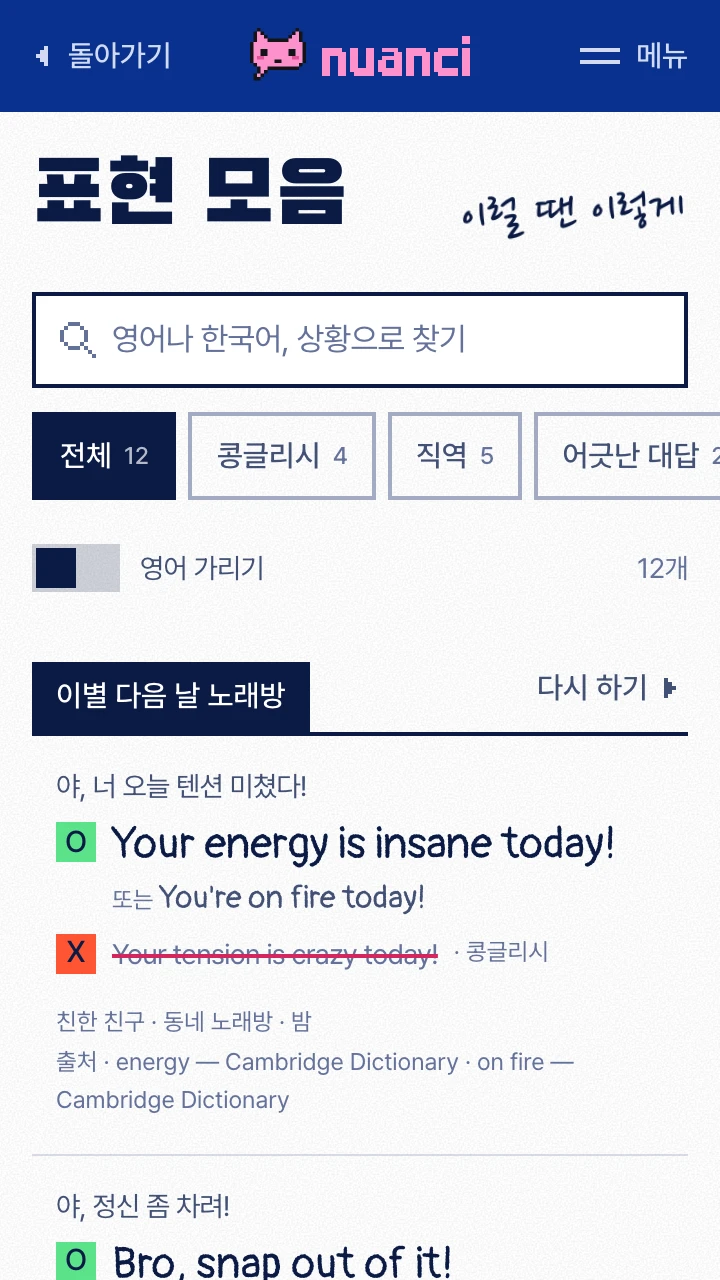
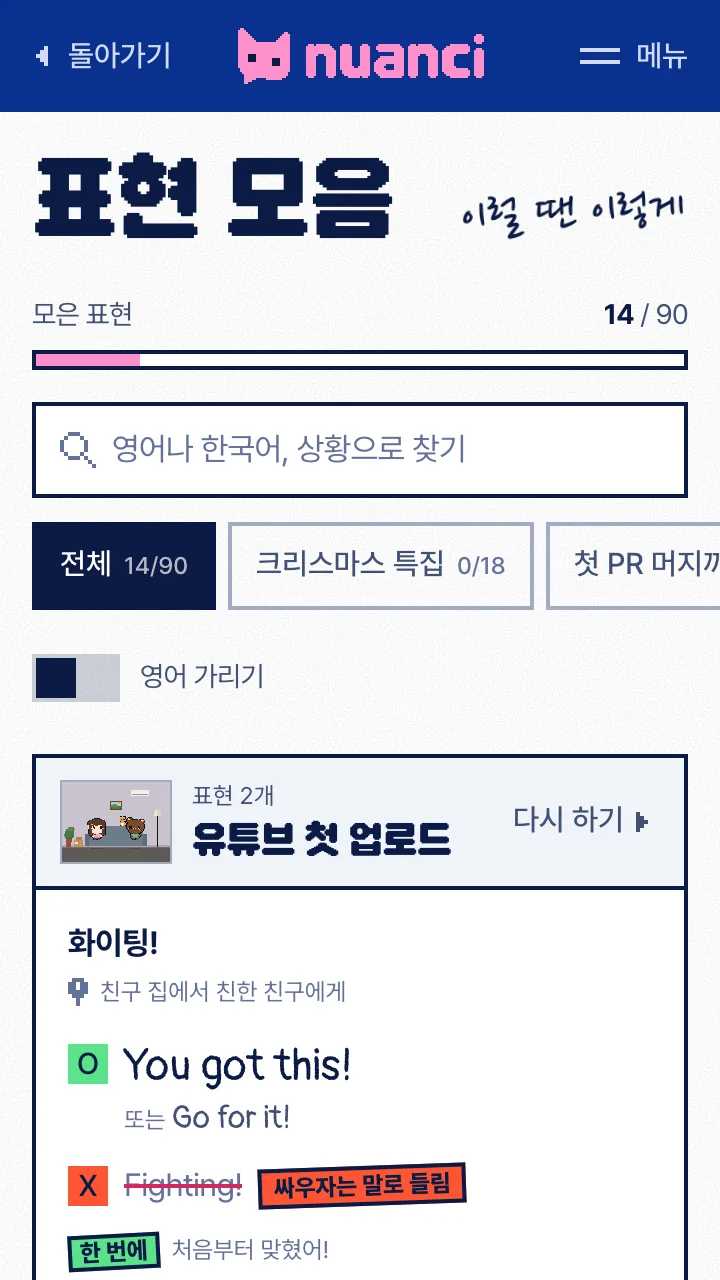
docs: README를 지금 서비스로. 홈·전체 장면·표현 모음·아지트를 새로 찍고, 진짜 목소리·다음 장면·표현 도감·장면 발행·상황별 표현 페이지를 소개, 아지트 모습 이름을 긴 머리·짧은 머리로

diff --git a/frontend/src/features/account/room-view.tsx b/frontend/src/features/account/room-view.tsx
@@ -28,7 +28,8 @@ import { useAccount } from "./account";
 import { GoogleButton } from "./google-button";
 
 const noop = () => () => {};
-const HERO_LABELS: Record<Hero, string> = { boy: "남자", girl: "여자" };
+// 성별 낱말 대신 모습으로 부른다(첫 장면 뒤 모습 고르기와 같은 말)
+const HERO_LABELS: Record<Hero, string> = { boy: "짧은 머리", girl: "긴 머리" };
 
 const TABS = [
   { id: "wear", label: "옷장" },

diff --git a/README.md b/README.md
@@ -17,7 +17,7 @@
 
 <div align="center">
   <h3>이 말, 영어로 통할까?</h3>
-  <p>화이팅, 콘센트, 물은 셀프.<br>한국어 그대로 옮긴 말이 상대에게 어떻게 들리는지 무대 위에서 바로 보여요.</p>
+  <p>화이팅, 수고하세요, 잘 부탁드립니다.<br>한국어 그대로 옮긴 말이 상대에게 어떻게 들리는지 무대 위에서 바로 보여요.</p>
   <img src=".github/readme/stage-demo.gif" alt="픽셀 무대: 'Fighting!'에 친구가 갸우뚱하고, 'Cheer up!'에 우울해 보이냐고 되묻고, 'You got this!'에 신나서 업로드하는 장면" width="64%">
 </div>
 
@@ -25,8 +25,17 @@
 
 <div align="center">
   <h3>골라 보면 알아요</h3>
-  <p>고른 말에 따라 상대의 표정과 속마음이 달라져요.<br>왜 그렇게 들리는지 확인하고, 다른 말도 눌러 볼 수 있어요.</p>
+  <p>고른 말에 따라 상대의 표정과 속마음이 달라져요.<br>캐릭터 대사는 진짜 영어 목소리로 들리고,<br>왜 그렇게 들리는지 확인한 뒤 다른 말도 눌러 볼 수 있어요.</p>
   <img src=".github/readme/play.gif" alt="장면 플레이: 'Cheer up!'을 고르자 친구가 우울해 보이냐고 되묻고, 이어서 'You got this!'를 눌러 반응을 비교하는 화면" width="36%">
+</div>
+
+<br>
+
+<div align="center">
+  <h3>다음 장면 하나, 그리고 모음</h3>
+  <p>홈에는 이어서 할 장면 하나만 크게 보여요.<br>친구랑·회사에서 같은 상황별 모음과 크리스마스 같은 특집도 골라 볼 수 있어요.</p>
+  <img src=".github/readme/home.webp" alt="홈: 이어서 할 장면 '이별 다음 날 노래방'과 크리스마스 특집 배너" width="28%">
+  <img src=".github/readme/scenes.webp" alt="전체 장면: 다음 장면 카드, 상황별 탭, 크리스마스 특집 모음" width="28%">
 </div>
 
 <br>
@@ -40,11 +49,10 @@
 <br>
 
 <div align="center">
-  <h3>표현 모음 · 전체 장면 · 아지트</h3>
-  <p>해 본 장면의 표현은 모아서 복습하고<br>장면을 하며 얻은 물건으로 내 캐릭터와 방을 꾸며요.</p>
-  <img src=".github/readme/expressions.webp" alt="표현 모음: 장면별로 묶은 영어 표현과 콩글리시·직역 같은 이유별 필터" width="28%">
-  <img src=".github/readme/scenes.webp" alt="전체 장면: 무대 썸네일이 있는 화별 장면 목록과 진행 상태" width="28%">
-  <img src=".github/readme/room.webp" alt="아지트: 픽셀 방에 있는 캐릭터와 옷장, 방 꾸미기 메뉴" width="28%">
+  <h3>표현 모음 · 아지트</h3>
+  <p>만난 표현은 도감처럼 모여요. 처음부터 맞힌 표현엔 '한 번에' 도장이 찍혀요.<br>장면을 하며 얻은 물건으로 내 캐릭터와 방을 꾸며요.</p>
+  <img src=".github/readme/expressions.webp" alt="표현 모음: 모은 표현 비율 막대, 상황별 탭, 처음부터 맞힌 표현의 '한 번에' 도장" width="28%">
+  <img src=".github/readme/room.webp" alt="아지트: 픽셀 방에 있는 캐릭터, 다음 보상, 옷장과 모습 고르기" width="28%">
 </div>
 
 <br>
@@ -56,16 +64,20 @@
 | **Frontend** | Next.js 16, React 19, TypeScript, Tailwind CSS v4, three.js, React Three Fiber |
 | **Backend** | Kotlin, Spring Boot 4, Spring Data JPA, Flyway, Testcontainers |
 | **Database** | PostgreSQL 17 |
-| **Infra** | Vercel, AWS Lightsail, Docker Compose, Caddy, GitHub Actions |
+| **AI · 음성** | Gemini API(자유 입력 반응), ElevenLabs(캐릭터 목소리) |
+| **Infra** | Vercel, AWS Lightsail, S3 · CloudFront, Docker Compose, Caddy, GitHub Actions |
 
 ## 아키텍처
 
 ```mermaid
 flowchart LR
   user["브라우저"] --> web["Next.js<br>Vercel"]
+  user -->|장면 · 음성| cdn["CloudFront<br>S3"]
   web -->|"/api 프록시"| caddy["Caddy<br>Lightsail"]
   caddy --> api["Spring Boot"]
   api --> db[("PostgreSQL")]
+  api -->|장면 발행| cdn
+  api <-->|자유 입력 반응| gemini["Gemini API"]
   api <-->|로그인| google["Google OAuth"]
   gha["GitHub Actions"] -.->|배포| web
   gha -.->|배포| api
@@ -78,9 +90,12 @@ flowchart LR
 
 - **픽셀 무대:** three.js 장면을 고정된 가로 픽셀 수로 그려서, 화면 크기가 달라도 도트 밀도가 같아요.
 - **빠른 첫 화면:** 무대는 글자와 버튼이 뜬 뒤 따로 불러와요.
-- **장면 관리:** 장면은 코드가 아니라 DB에 버전별로 저장해요. 새 장면은 초안으로 들어가고 관리자 화면에서 검수해요.
-- **연속 장면:** 다음 장면은 전체 장면 순서를 그대로 따라가요. 예고 문구와 묶음은 장면 데이터로 정해요.
-- **효과음:** 음원 파일 없이 Web Audio로 그때그때 만들어요.
+- **장면 관리:** 장면은 코드가 아니라 DB에 버전별로 저장해요. 새 장면은 초안으로 들어가고, 올리기 전 보기 자동 검사와 관리자 검수를 거쳐요.
+- **장면 발행:** 공개한 장면은 내용 해시 주소의 정적 JSON으로 S3 · CloudFront에 올려, 서버가 멈춰도 장면을 읽을 수 있어요.
+- **다음 장면:** 홈에는 이어서 할 장면 하나만 둬요. 특집 안이면 그 묶음의 다음, 아니면 추천 순서의 안 해 본 첫 장면이에요.
+- **목소리:** 캐릭터마다 목소리를 디자인해 대사를 미리 만들어 두고, 장면 단계별 묶음 파일로 CDN에서 받아요. 음성이 없는 대사는 웅얼거림 소리로 대신해요.
+- **효과음:** 실제 악기 사운드폰트로 만든 짧은 효과음을 Web Audio로 재생해요.
+- **상황별 표현 페이지:** 표현마다 서버에서 글로 그린 공개 페이지(`/learn`)가 있어 검색에서도 찾을 수 있어요.
 - **공유 카드:** 장면과 결과마다 Open Graph 이미지를 코드로 그려요.
 - **지표:** 크롤러와 자동화 브라우저는 이용 지표에서 빼요.
 
@@ -101,6 +116,10 @@ flowchart LR
 │       ├── landing/         # 홈, 데모, 장면 목록
 │       ├── typetest/        # 유형 테스트
 │       ├── collection/      # 표현 모음
+│       ├── learn/           # 상황별 표현 공개 페이지
+│       ├── avatar/          # 주인공 모습
+│       ├── season/          # 특집 장식
+│       ├── push/            # 웹 푸시
 │       ├── review/          # 오늘의 복습
 │       ├── rewards/         # 보상 물건
 │       ├── account/         # 로그인, 내 정보, 아지트
@@ -109,7 +128,7 @@ flowchart LR
 ├── backend/src/main/
 │   ├── kotlin/com/nuanci/   # scene, account, reward, streak, review, event, metrics, admin ...
 │   └── resources/db/migration/   # Flyway 마이그레이션
-├── scripts/                 # 로컬 실행, 배포, 장면 업로드
+├── scripts/                 # 로컬 실행, 배포, 장면 업로드, 음성 생성, 보기 검사
 ├── compose.yaml             # 로컬 PostgreSQL
 └── compose.prod.yaml        # 운영 서버 구성
 ```
